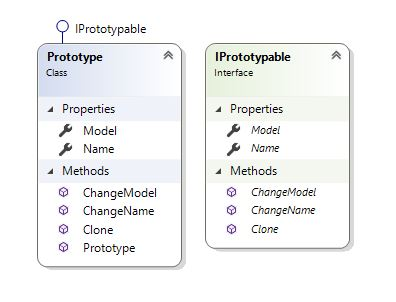
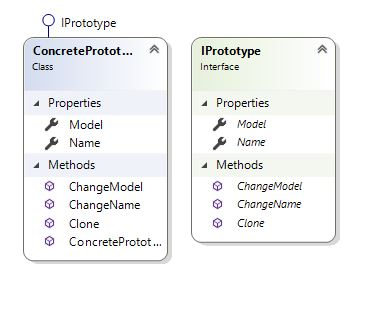
prototype pattern revisited

Changed region(s): [[0.0623, 0.0298, 0.9039, 0.894]]

diff --git a/DesignPatterns/PrototypeLibrary/UnitTests.cs b/DesignPatterns/PrototypeLibrary/UnitTests.cs
@@ -3,18 +3,18 @@
 namespace PrototypeLibrary
 {
     [TestFixture]
-    class UnitTests
+    internal class UnitTests
     {
         [Test]
         public void CloneTest()
         {
-            IPrototypable p1 = new Prototype("T60", "Terminator228");
-            IPrototypable t = p1.Clone();
-            Assert.That(t.Name, Is.EqualTo("T60"));
-            t.ChangeName("PetroBogMira228");
-            t.ChangeModel("TerminatorRun5000");
-            Assert.That(t.Name, Is.EqualTo("PetroBogMira228"));
-            Assert.That(t.Model, Is.EqualTo("TerminatorRun5000"));
+            var p1 = new ConcretePrototype("T60", "Terminator228");
+            var p2 = p1.Clone();
+            Assert.That(p2.Name, Is.EqualTo("T60"));
+            p2.ChangeName("PetroBogMira228");
+            p2.ChangeModel("TerminatorRun5000");
+            Assert.That(p2.Name, Is.EqualTo("PetroBogMira228"));
+            Assert.That(p2.Model, Is.EqualTo("TerminatorRun5000"));
             Assert.That(p1.Name, Is.EqualTo("T60"));
             Assert.That(p1.Model, Is.EqualTo("Terminator228"));
         }
@@ -22,12 +22,12 @@ namespace PrototypeLibrary
         [Test]
         public void CloneTest2()
         {
-            IPrototypable p1 = new Prototype("T60", "Terminator228");
+            var p1 = new ConcretePrototype("T60", "Terminator228");
             p1.ChangeName("PetroBogMira228");
             p1.ChangeModel("TerminatorRun5000");
-            IPrototypable t = p1.Clone();
-            Assert.That(t.Name, Is.EqualTo("PetroBogMira228"));
-            Assert.That(t.Model, Is.EqualTo("TerminatorRun5000")); 
+            var p2 = p1.Clone();
+            Assert.That(p2.Name, Is.EqualTo("PetroBogMira228"));
+            Assert.That(p2.Model, Is.EqualTo("TerminatorRun5000")); 
         }
     }
 }

diff --git a/DesignPatterns/PrototypeLibrary/ConcretePrototype.cs b/DesignPatterns/PrototypeLibrary/ConcretePrototype.cs
@@ -1,0 +1,30 @@
+namespace PrototypeLibrary
+{
+    internal class ConcretePrototype : IPrototype
+    {
+        public string Name { get; private set; }
+        public string Model { get; private set; }
+
+        public ConcretePrototype(string name, string model)
+        {
+            Name = name;
+            Model = model;
+        }
+
+        public IPrototype Clone()
+        {
+            return new ConcretePrototype(Name, Model);      // deep copy
+            // return this;                                 // shallow copy
+        }
+
+        public void ChangeName(string name)
+        {
+            Name = name;
+        }
+
+        public void ChangeModel(string model)
+        {
+            Model = model;
+        }
+    }
+}

diff --git a/DesignPatterns/PrototypeLibrary/IPrototype.cs b/DesignPatterns/PrototypeLibrary/IPrototype.cs
@@ -1,0 +1,11 @@
+namespace PrototypeLibrary
+{
+    internal interface IPrototype
+    {
+        string Name { get; }
+        string Model { get; }
+        IPrototype Clone();
+        void ChangeName(string name);
+        void ChangeModel(string model);
+    }
+}
